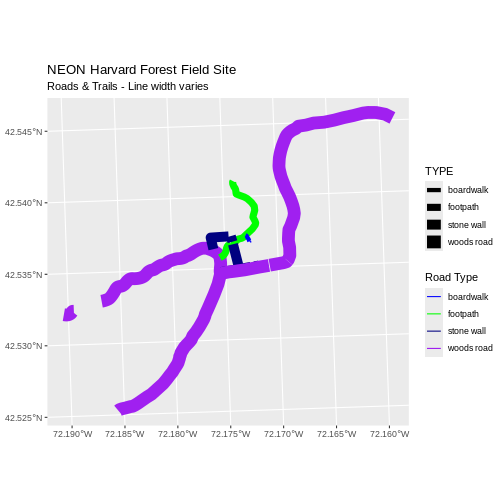
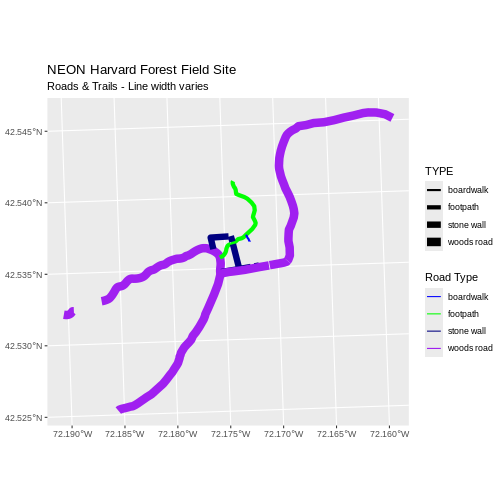
markdown source builds
Auto-generated via `{sandpaper}`
Source  : 90235151b421730242197649c8e5577f836c054e
Branch  : main
Author  : Jon Jablonski <jonjab@ucsb.edu>
Time    : 2025-08-12 16:10:28 +0000
Message : Merge branch 'datacarpentry:main' into main

diff --git a/07-vector-shapefile-attributes-in-r.md b/07-vector-shapefile-attributes-in-r.md
@@ -486,14 +486,10 @@ ggplot() +
   geom_sf(data = lines_HARV, aes(color = TYPE, linewidth = TYPE)) +
   scale_color_manual(values = road_colors) +
   labs(color = 'Road Type') +
-  scale_size_manual(values = line_widths) +
+  scale_linewidth_manual(values = line_widths) +
   ggtitle("NEON Harvard Forest Field Site",
           subtitle = "Roads & Trails - Line width varies") +
   coord_sf()
-```
-
-``` warning
-Warning: Using linewidth for a discrete variable is not advised.
 ```
 
 <div class="figure" style="text-align: center">
@@ -548,14 +544,10 @@ Now we can create our plot.
 ``` r
 ggplot() +
   geom_sf(data = lines_HARV, aes(linewidth = TYPE)) +
-  scale_size_manual(values = line_width) +
+  scale_linewidth_manual(values = line_width) +
   ggtitle("NEON Harvard Forest Field Site",
           subtitle = "Roads & Trails - Line width varies") +
   coord_sf()
-```
-
-``` warning
-Warning: Using linewidth for a discrete variable is not advised.
 ```
 
 <div class="figure" style="text-align: center">

diff --git a/05-raster-multi-band-in-r.md b/05-raster-multi-band-in-r.md
@@ -253,25 +253,19 @@ range of potential values to increase the visual contrast of the image.
 ``` r
 plotRGB(RGB_stack_HARV,
         r = 1, g = 2, b = 3,
-        scale = 800,
         stretch = "lin")
 ```
 
-``` error
-Error in grDevices::rgb(RGB[, 1], RGB[, 2], RGB[, 3], alpha = alpha, maxColorValue = scale): alpha level 800, not in 0:255
-```
+<img src="fig/05-raster-multi-band-in-r-rendered-plot-rbg-image-linear-1.png" style="display: block; margin: auto;" />
 
 
 ``` r
 plotRGB(RGB_stack_HARV,
         r = 1, g = 2, b = 3,
-        scale = 800,
         stretch = "hist")
 ```
 
-``` error
-Error in grDevices::rgb(RGB[, 1], RGB[, 2], RGB[, 3], alpha = alpha, maxColorValue = scale): alpha level 800, not in 0:255
-```
+<img src="fig/05-raster-multi-band-in-r-rendered-plot-rgb-image-hist-1.png" style="display: block; margin: auto;" />
 
 In this case, the stretch doesn't enhance the contrast our image significantly 
 given the distribution of reflectance (or brightness) values is distributed 
